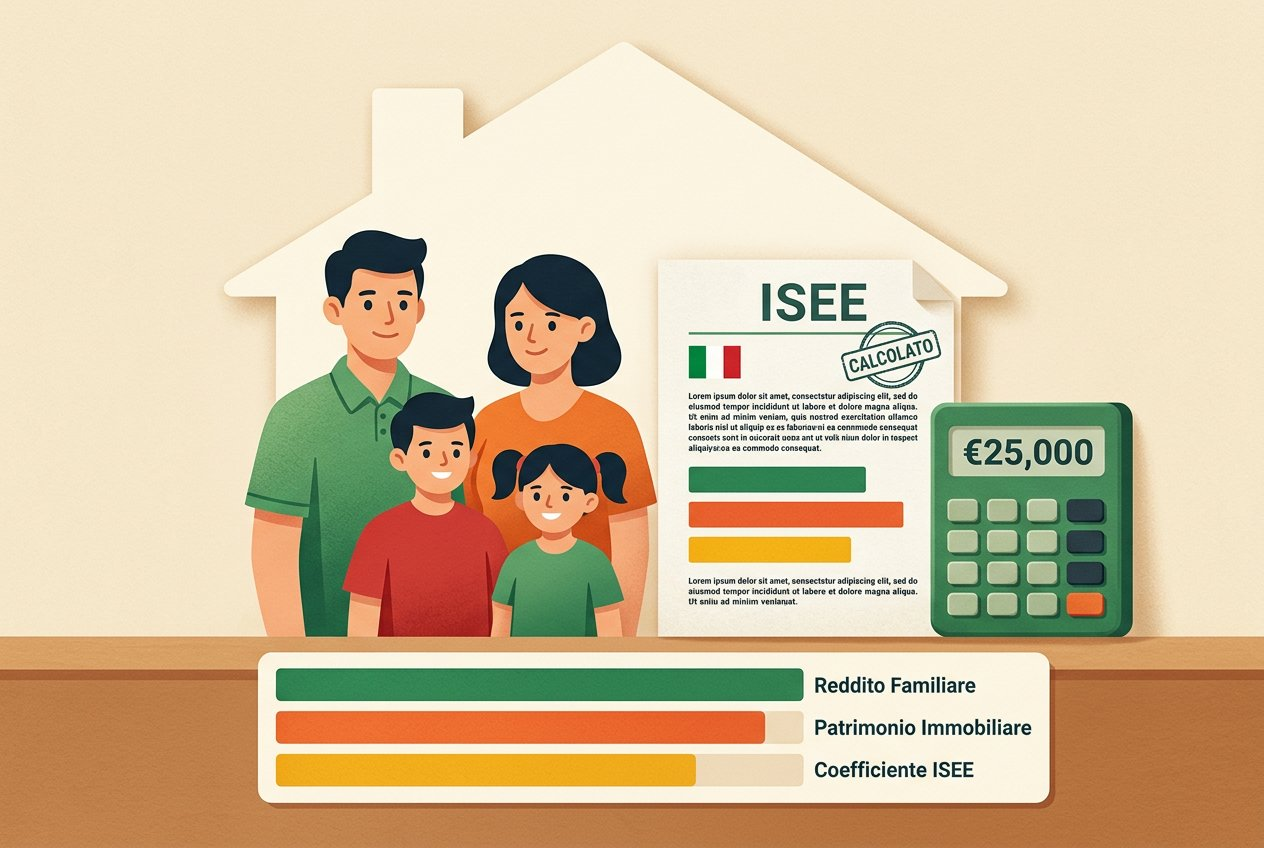
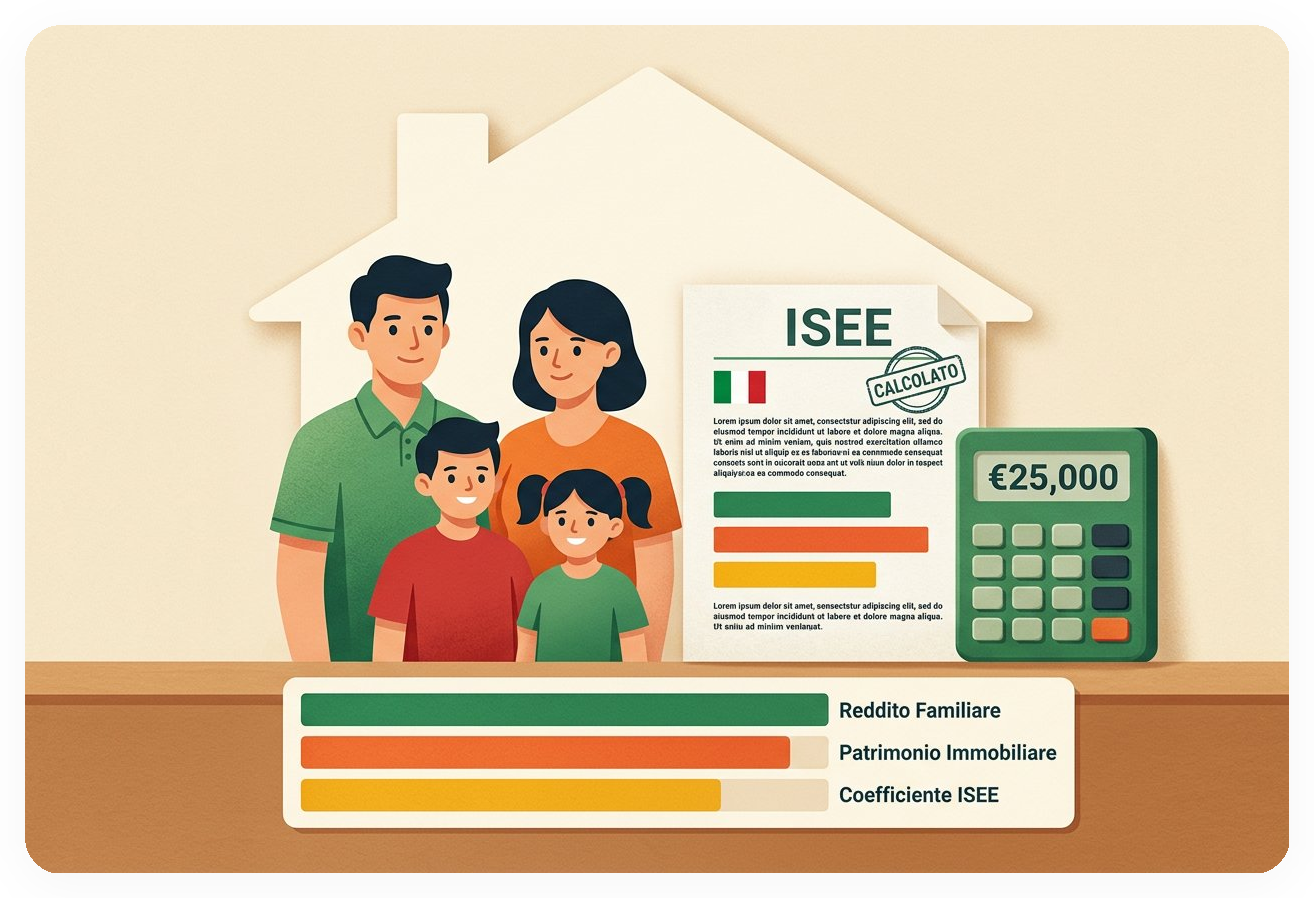
Bake rounded corners + 3D shadow into hero PNGs, remove CSS effects

diff --git a/app/730/Guide730Content.js b/app/730/Guide730Content.js
@@ -57,7 +57,7 @@ export default function Guide730Content({ faqItems }) {
 
           {/* Hero image */}
           <div className="guide-hero-img">
-            <img src="/hero-730.png" alt="Guida al 730 2026: documento, calcolatrice, scadenza 30 settembre" style={{width:'100%',height:'100%',objectFit:'cover'}} />
+            <img src="/hero-730.png" alt="Guida al 730 2026: documento, calcolatrice, scadenza 30 settembre" style={{width:'100%',height:'100%',objectFit:'contain'}} />
           </div>
           </div>
         </div>

diff --git a/app/isee/GuideIseeContent.js b/app/isee/GuideIseeContent.js
@@ -53,7 +53,7 @@ export default function GuideIseeContent({ faqItems }) {
           </div>
 
           <div className="guide-hero-img">
-            <img src="/hero-isee.png" alt="Guida ISEE 2026: documento, famiglia, bonus" style={{width:'100%',height:'100%',objectFit:'cover'}} />
+            <img src="/hero-isee.png" alt="Guida ISEE 2026: documento, famiglia, bonus" style={{width:'100%',height:'100%',objectFit:'contain'}} />
           </div>
           </div>
         </div>

diff --git a/app/globals.css b/app/globals.css
@@ -738,10 +738,8 @@ img { max-width: 100%; display: block }
 
 /* Hero image placeholder */
 .guide-hero-img {
-  border-radius:20px;
   display:flex; align-items:center; justify-content:center;
-  overflow:hidden; position:relative; min-height:360px;
-  box-shadow:0 8px 30px rgba(0,0,0,.08), 0 2px 8px rgba(0,0,0,.04);
+  position:relative; min-height:360px;
 }
 .guide-hero-img span {
   font-family:var(--font-display), Georgia, serif;

diff --git a/app/spid/GuideSpidContent.js b/app/spid/GuideSpidContent.js
@@ -53,7 +53,7 @@ export default function GuideSpidContent({ faqItems }) {
           </div>
 
           <div className="guide-hero-img">
-            <img src="/hero-spid.png" alt="Guida SPID 2026" style={{width:'100%',height:'100%',objectFit:'cover'}} />
+            <img src="/hero-spid.png" alt="Guida SPID 2026" style={{width:'100%',height:'100%',objectFit:'contain'}} />
           </div>
           </div>
         </div>
